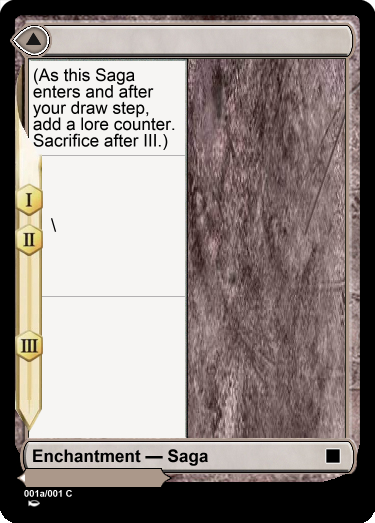
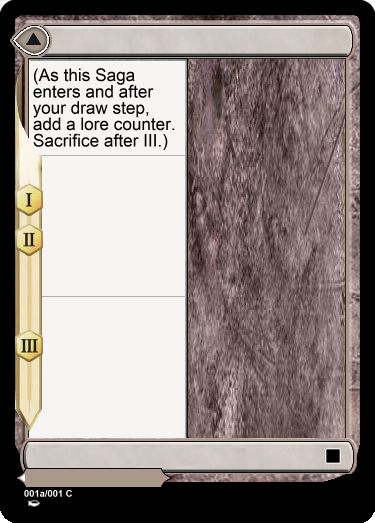
Finished normalAdventure and a few minor updates

Changed region(s): [[0.088, 0.8566, 0.5573, 0.8872]]

diff --git a/combine.py b/combine.py
@@ -78,6 +78,7 @@ fuseTypeCoord2 = (289, 210)
 adventureTypeCoord = (33, 355)
 aftermathTypeCoord1 = (31, 185)
 aftermathTypeCoord2 = (296, 177)
+sagaTypeCoord = (33, 445)
 
 standardBodyCoord = (33, 332, 339, 480)
 fullTextBodyCoord = (33, 98, 339, 467)
@@ -88,6 +89,7 @@ adventureBodyCoord2 = (33, 379, 183, 479)
 planeswalkerBodyCoord = ()
 aftermathBodyCoord1 = (33, 218, 342, 275)
 aftermathBodyCoord2 = (303, 260, 473, 342)
+saga2ChapterBodyCoord = ((44, 158, 182, 293), (44, 299, 182, 435))
 
 #3rd/4th number are the size of the mana symbols
 standardManaCoord = (346, 31, 17, 18)
@@ -208,7 +210,7 @@ def getMainType(typeLine):
   
 
 #Pass the face in if card is multifaced
-def createCardImage(card, framePath, titleCoord, typeCoord, textCoord, manaCoord, flipsideTitleCoords = None, card2 = None, title2Coord = None, type2Coord = None, text2Coord = None, manaCoord2 = None):
+def createCardImage(card, framePath, titleCoord, typeCoord, textCoord, manaCoord, flipsideTitleCoords = None, backCard = None, card2 = None, title2Coord = None, type2Coord = None, text2Coord = None, manaCoord2 = None):
     frame = Image.open(framePath)
     draw = ImageDraw.Draw(frame)
     draw.text(titleCoord, card["name"], font=titleFont, fill="black")
@@ -218,14 +220,20 @@ def createCardImage(card, framePath, titleCoord, typeCoord, textCoord, manaCoord
         box = Image.open("ManaSymbols/clpt.png").resize((81, 42))
         frame.paste(box, (274, 466), box)
         draw.text((316, 483), f"{card['power']}/{card['toughness']}", font=titleFont, fill="black", align="center", anchor="mm")
-    itFits = draw_text_within_bounding_box(frame, draw, card["oracle_text"], "Fonts/mplantin.ttf", 14, textCoord)
-    if flipsideTitleCoords and card2:
+    if ("Saga" in framePath):
+        chapters = card["oracle_text"].split("\n")[1:]
+        for index, chapter in enumerate(chapters):
+            chapter = chapter.split(" — ")[1]
+            draw_text_within_bounding_box(frame, draw, chapter, "Fonts/mplantin.ttf", 14, textCoord[index])
+    else:
+        itFits = draw_text_within_bounding_box(frame, draw, card["oracle_text"], "Fonts/mplantin.ttf", 14, textCoord)
+    if flipsideTitleCoords and backCard:
         if "Back" in framePath:
-            draw.text(flipsideTitleCoords, getMainType(card2["type_line"]), font=flipsideTitleFont, fill="black")
-            drawManaCost(frame, card2["mana_cost"], MDFCManaCoord)
+            draw.text(flipsideTitleCoords, getMainType(backCard["type_line"]), font=flipsideTitleFont, fill="black")
+            drawManaCost(frame, backCard["mana_cost"], MDFCManaCoord)
         else:
-            draw.text(flipsideTitleCoords, getMainType(card2["type_line"]), font=flipsideTitleFont, fill="white")
-            drawManaCost(frame, card2["mana_cost"], MDFCManaCoord)
+            draw.text(flipsideTitleCoords, getMainType(backCard["type_line"]), font=flipsideTitleFont, fill="white")
+            drawManaCost(frame, backCard["mana_cost"], MDFCManaCoord)
     if card2 and title2Coord and type2Coord and text2Coord and manaCoord2:
         if "Aftermath" in framePath:
             rotatedFrame = frame.rotate(90, expand=True)
@@ -345,7 +353,7 @@ def createSingleFaceCardObject(cardOne, cardTwo, id):
             "mana_cost": manaCost,
             "cmc": cmc,
             "type_line": f"{newFullTypeLine}",
-            "oracle_text": oracle.replace(cardOne['mainCard'][10], newName),
+            "oracle_text": oracle.replace(cardOne['mainCard'][10], newName).replace(cardTwo['mainCard'][10], newName),
             "power": power,
             "toughness": toughness
         }
@@ -381,7 +389,8 @@ def createTwoFaceCardObject(cardOne, cardTwo, id):
                 "type_line": cardOne['mainCard'][14],
                 "oracle_text": cardOne['mainCard'][11].replace(cardOne['mainCard'][10], newName),
                 "power": power1,
-                "toughness": toughness1
+                "toughness": toughness1,
+                "id": id
             },
             {
                 "object": "card_face",
@@ -390,10 +399,78 @@ def createTwoFaceCardObject(cardOne, cardTwo, id):
                 "type_line": cardTwo['mainCard'][14],
                 "oracle_text": cardTwo['mainCard'][11].replace(cardTwo['mainCard'][10], newNameTwo),
                 "power": power2,
-                "toughness": toughness2
+                "toughness": toughness2,
+                "id": id
             }
         ]
     }
+
+def createThreeFaceCardObject(faceOne, faceTwo, cardTwo, id):
+    newName = f"No. {id} - A"
+    newNameTwo = f"No. {id} - B"
+    newNameThree = f"No. {id} - C"
+
+    power1 = ""
+    power2 = ""
+    power3 = ""
+    toughness1 = ""
+    toughness2 = ""
+    toughness3 = ""
+    if faceOne[8]:
+        power1 = faceOne[8]
+    if faceTwo[8]:
+        power2 = faceTwo[8]
+    if cardTwo['mainCard'][12]:
+        power3 = cardTwo['mainCard'][12]
+    if faceOne[9]:
+        toughness1 = faceOne[9]
+    if faceTwo[9]:
+        toughness2 = faceTwo[9]
+    if cardTwo['mainCard'][13]:
+        toughness3 = cardTwo['mainCard'][13]
+    return {
+        "oracle_id": id,
+        "name": f"No. {id}",
+        "mana_cost": "",
+        "cmc": "",
+        "type_line": f"{faceOne[10]} // {faceTwo[10]} // {cardTwo['mainCard'][14]}",
+        "colors": "",
+        "card_faces": [
+            {
+                "object": "card_face",
+                "name": newName,
+                "mana_cost": faceOne[6],
+                "type_line": faceOne[10],
+                "oracle_text": faceOne[11].replace(faceOne[7], newName),
+                "power": power1,
+                "toughness": toughness1,
+                "id": id
+            },
+            {
+                "object": "card_face",
+                "name": newNameTwo,
+                "mana_cost": faceTwo[6],
+                "type_line": faceTwo[10],
+                "oracle_text": faceTwo[11].replace(faceTwo[7], newNameTwo),
+                "power": power2,
+                "toughness": toughness2,
+                "id": id
+            },
+            {
+                "object": "card_face",
+                "name": newNameThree,
+                "mana_cost": cardTwo['mainCard'][9],
+                "type_line": cardTwo['mainCard'][14],
+                "oracle_text": cardTwo['mainCard'][11].replace(cardTwo['mainCard'][10], newNameThree),
+                "power": power3,
+                "toughness": toughness3,
+                "id": id
+            }
+        ]
+    }
+
+def createFourFaceCardObject(cardOne, cardTow, id):
+    print()
 
 def normalNormal(cardOne, cardTwo, id):
     typeLineOne = cardOne['mainCard'][14]
@@ -416,20 +493,33 @@ def normalNormal(cardOne, cardTwo, id):
         createCardImage(card["card_faces"][0], "Frames/Adventure.png", standardTitleCoord, standardTypeCoord, adventureBodyCoord1, standardManaCoord, card2=card["card_faces"][1], title2Coord=adventureTitleCoord, type2Coord=adventureTypeCoord, text2Coord=adventureBodyCoord2, manaCoord2=adventureManaCoord)
     elif ('Land' in typeLineOne or 'Land' in typeLineTwo) or ("X" in cardOne['mainCard'][9] or "X" in cardTwo['mainCard'][9]) or ("X" in cardOne['mainCard'][12] or "X" in cardOne['mainCard'][13] or "X" in cardTwo['mainCard'][12] or "X" in cardTwo['mainCard'][13]):
         card = createTwoFaceCardObject(cardOne, cardTwo, id)
-        createCardImage(card["card_faces"][0], "Frames/StandardMDFCFront.png", offsetTitleCoord, standardTypeCoord, standardBodyCoord, standardManaCoord, flipsideTitleCoords=flipsideTitleCoord, card2=card["card_faces"][1])
-        createCardImage(card["card_faces"][1], "Frames/StandardMDFCBack.png", offsetTitleCoord, standardTypeCoord, standardBodyCoord, standardManaCoord, flipsideTitleCoords=flipsideTitleCoord, card2=card["card_faces"][0])
+        createCardImage(card["card_faces"][0], "Frames/StandardMDFCFront.png", offsetTitleCoord, standardTypeCoord, standardBodyCoord, standardManaCoord, flipsideTitleCoords=flipsideTitleCoord, backCard=card["card_faces"][1])
+        createCardImage(card["card_faces"][1], "Frames/StandardMDFCBack.png", offsetTitleCoord, standardTypeCoord, standardBodyCoord, standardManaCoord, flipsideTitleCoords=flipsideTitleCoord, backCard=card["card_faces"][0])
     else:
         card = createSingleFaceCardObject(cardOne, cardTwo, id)
         createCardImage(card, "Frames/Standard.png", standardTitleCoord, standardTypeCoord, standardBodyCoord, standardManaCoord)
 
 
 def normalSaga(cardOne, cardTwo, id):
-    print()
+    typeLineOne = cardOne['mainCard'][14]
+    card = createTwoFaceCardObject(cardTwo, cardOne, id)
+    sagaLines = cardTwo['mainCard'][11].split('\n')
+    if sagaLines[1].startswith("I, II —") and sagaLines[2].startswith("III —") and len(sagaLines) == 3:
+        if ('Instant' in typeLineOne or 'Sorcery' in typeLineOne or 'Land' in typeLineOne):
+            createCardImage(card["card_faces"][0], "Frames/12-3SagaMDFCFront.png", offsetTitleCoord, sagaTypeCoord, saga2ChapterBodyCoord, standardManaCoord, flipsideTitleCoords=flipsideTitleCoord, backCard=card["card_faces"][1])
+            createCardImage(card["card_faces"][1], "Frames/StandardMDFCBack.png", offsetTitleCoord, standardTypeCoord, standardBodyCoord, standardManaCoord, flipsideTitleCoords=flipsideTitleCoord, backCard=card["card_faces"][0])
+        else:
+            createCardImage(card["card_faces"][0], "Frames/12-3SagaTransformFront.png", offsetTitleCoord, sagaTypeCoord, saga2ChapterBodyCoord, standardManaCoord, card2=card["card_faces"][1])
+            createCardImage(card["card_faces"][1], "Frames/StandardTransformBack.png", offsetTitleCoord, standardTypeCoord, standardBodyCoord, standardManaCoord, card2=card["card_faces"][0])
 
 def normalAdventure(cardOne, cardTwo, id):
-    print()
+    card = createThreeFaceCardObject(cardTwo['faces'][0], cardTwo['faces'][1], cardOne, id)
+    createCardImage(card["card_faces"][0], "Frames/AdventureMDFCFront.png", offsetTitleCoord, standardTypeCoord, adventureBodyCoord1, standardManaCoord, backCard=card["card_faces"][2] ,flipsideTitleCoords=flipsideTitleCoord, card2=card["card_faces"][1], title2Coord=adventureTitleCoord, type2Coord=adventureTypeCoord, text2Coord=adventureBodyCoord2, manaCoord2=adventureManaCoord)
+    createCardImage(card["card_faces"][2], "Frames/StandardMDFCBack.png", offsetTitleCoord, standardTypeCoord, standardBodyCoord, standardManaCoord, flipsideTitleCoords=flipsideTitleCoord, backCard=card["card_faces"][0])
 
 def normalPlaneswalker(cardOne, cardTwo, id):
+    card = createTwoFaceCardObject(cardOne, cardTwo, id)
+
     print()
 
 def sagaSaga(cardOne, cardTwo, id):

diff --git a/databaseAccessor.py b/databaseAccessor.py
@@ -152,6 +152,7 @@ def main():
     cardOne = fetch_card_by_name(card_name)
     card_name = input("Enter the name of the 2nd card: ")
     cardTwo = fetch_card_by_name(card_name)
+    print(f"INITIAL CARD ONE HERE --------------> {cardOne}")
 
     combine.combine(cardOne, cardTwo)
 
